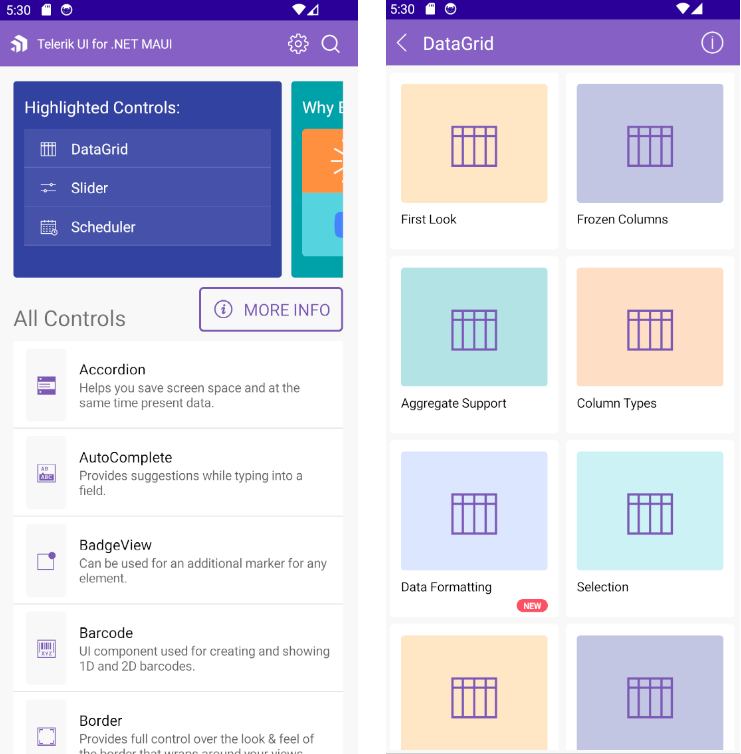
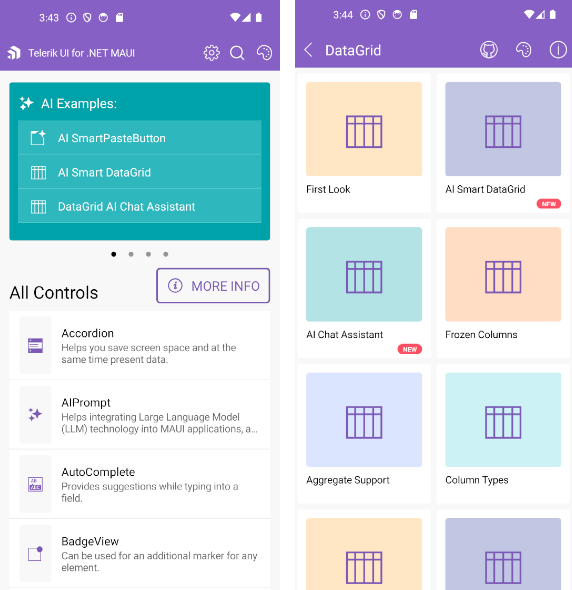
Merge pull request #1391 from telerik/didi/refactor-samples-app
Update demos and get started

Pull request: Update demos and get started

diff --git a/demos-and-sample-apps/overview.md b/demos-and-sample-apps/overview.md
@@ -18,46 +18,36 @@ The Telerik UI for .NET MAUI library offers an extensive set of fully featured e
 
 The following demo apps deliver a rich collection of .NET MAUI examples:
 
-* [Controls Samples App]({%slug controls-samples-app%})
-* [Progress Agentic RAG and Telerik UI for .NET MAUI controls]({%slug maui-parag-demo-app%})
-* [SDKBrowser App]({%slug sdkbrowser-app%})
-* [Crypto Tracker App]({%slug maui-crypto-app%})
+<article-card-container>
+	<article-card
+		href="/demos-and-sample-apps/controls-showcase-app"
+		src="../images/samples-apps.png"
+		title="Controls Samples App"
+		subTitle="Showcase Demo App"
+		description="The Telerik UI for .NET MAUI Controls Samples is a highly polished application offering many scenario-specific use cases designed to show off a subset of features for each component.">
+	</article-card>
+	<article-card
+		href="/demos-and-sample-apps/parag-demo-maui-ai"
+		src="images/parag-demo-maui-ai-mobile.png"
+		title="Progress Agentic RAG Demo App"
+		subTitle=".NET MAUI Progress Agentic RAG Demo App"
+		description="The Telerik UI for .NET MAUI Progress Agentic RAG Demo App uses the Progress Agentic RAG service to demonstrate how to integrate AI capabilities into your .NET MAUI applications.">
+	</article-card>
+	<article-card
+		href="/demos-and-sample-apps/sdkbrowser-app"
+		src="images/sdk-browser-app.png"
+		title="SDKBrowser App Examples"
+		subTitle=".NET MAUI SDKBrowser Demo Application"
+		description="The SDKBrowser is a set of .NET MAUI samples in C# and XAML that explain how to use the features of a control.">
+	</article-card>
+	<article-card
+		href="/demos-and-sample-apps/crypto-app"
+		src="../images/crypto-app.png"
+		title="Crypto Tracker App Demo"
+		subTitle=".NET MAUI Crypto Tracker App Demo"
+		description="Crypto Tracker demo is a real-case crypto application that shows changes in cryptocurrency prices, offering practical .NET MAUI app examples built with the Telerik UI for .NET MAUI controls.">
+	</article-card>
+</article-card-container>
 
 > Telerik UI for .NET MAUI version 12.0.0 adds support for .NET 10.0. You can easily switch the .NET version to .NET 9.0 or .NET 10 to build the apps. 
 > Inside the Examples folder of the installation/.zip file there are `.ps1` files - `SwitchToNet9.ps1` and `SwitchToNet10.ps1`. You can use them to switch the .NET version you use to build the .NET MAUI sample apps.
-
-## .NET MAUI Controls Samples App
-
-The Telerik UI for .NET MAUI Controls Samples is a highly polished application offering many scenario-specific use cases designed to show off a subset of features for each component. The app provides various .NET MAUI examples for many of the 60+ .NET MAUI controls included in the library.
-
-![Telerik UI for .NET MAUI Sample App WinU](images/controlssamples-winui.png)
-
-For more information on it, refer to [Controls Samples App]({%slug controls-samples-app%}).
-
-## .NET MAUI Progress Agentic RAG Demo App
-
-The Telerik UI for .NET MAUI Progress Agentic RAG Demo App uses the [Progress Agentic RAG](https://www.progress.com/agentic-rag) service to demonstrate how to integrate AI capabilities into your .NET MAUI applications. 
-
-The demo app showcases the AI-Powered search capabilities of the Progress Agentic RAG service, allowing users to interact with the AI assistant and retrieve relevant information based on their queries. 
-
-The app provides a practical example of how to leverage AI in .NET MAUI applications using the Telerik UI for .NET MAUI controls for the user interface and the Progress Agentic RAG service for the backend.
-
-![Telerik UI for .NET MAUI Progress Agentic RAG](images/parag-demo-maui-ai.png)
-
-For more information on it, refer to [.NET MAUI Progress Agentic RAG Demo App]({%slug maui-parag-demo-app%}).
-
-## .NET MAUI SDKBrowser App Examples
-
-The SDKBrowser is a set of .NET MAUI samples in C# and XAML that explain how to use the features of a control. Contrary to the Controls Samples application, the SDKBrowser shows the components in their pure form without adding extra styling and polishing. It's the go-to source for "how do I use X in Y control". Most of the code snippets available in the documentation are directly generated from the examples in the SDKBrowser (you can see special comments in the code for this).
-
-![.NET MAUI examples and controls samples](images/sdk-mobile.png)
-
-For more information on it, refer to [SDKBrowser App Examples]({%slug sdkbrowser-app%}).
-
-## .NET MAUI Crypto Tracker App Demo
-
-Crypto Tracker demo is a real-case crypto application that shows changes in cryptocurrency prices, offering practical .NET MAUI app examples built with the Telerik UI for .NET MAUI controls. In this demo, you can see in action many of the .NET MAUI controls in the library, including the CollectionView, Charts and TabView.
-
-![Telerik UI for .NET MAUI Crypto Tracker App Demo](../images/crypto-app.png)
-
-For more information on it, refer to [Crypto Tracker App Demo]({%slug maui-crypto-app%}).

diff --git a/get-started/quickstart.md b/get-started/quickstart.md
@@ -1,6 +1,6 @@
 ---
-title: Quick Start
-page_title: Telerik UI for .NET MAUI Quick Start
+title: First Steps
+page_title: Telerik UI for .NET MAUI First Steps
 description: "Get started with Telerik UI for .NET MAUI by following the essential steps to set up your license, create a project, and add your first control."
 tags: maui, dotnet maui, microsoft maui, telerik maui, nuget, ui for .net maui, macos, install, quick
 slug: maui-quick-start
@@ -9,7 +9,7 @@ previous_url: /maui-getting-started, /get-started/first-steps, /installation/win
 position: 1
 ---
 
-# Quick Start with Telerik UI for .NET MAUI
+# First Steps with Telerik UI for .NET MAUI
 
 This guide walks you through the essential steps to get Telerik UI for .NET MAUI up and running in your app.
 

diff --git a/demos-and-sample-apps/controls-showcase-app.md b/demos-and-sample-apps/controls-showcase-app.md
@@ -9,7 +9,7 @@ position: 1
 
 # Controls Samples Application
 
-The **Telerik UI for .NET MAUI Controls Samples** application provides many scenario-specific use cases designed to show off a subset of features for each component.
+The Telerik UI for .NET MAUI Controls Samples is a highly polished application offering many scenario-specific use cases designed to show off a subset of features for each component. The app provides various .NET MAUI examples for many of the 60+ .NET MAUI controls included in the library.
 
 You can access the Controls Samples application in the following ways:
 

diff --git a/demos-and-sample-apps/crypto-app.md b/demos-and-sample-apps/crypto-app.md
@@ -9,7 +9,7 @@ position: 3
 
 # Crypto Tracker Application
 
-Crypto Tracker demo is a real-case crypto application that shows changes in cryptocurrency prices, built with the Telerik UI for .NET MAUI controls.
+Crypto Tracker demo is a real-case crypto application that shows changes in cryptocurrency prices, built with the Telerik UI for .NET MAUI controls. In this demo, you can see in action many of the .NET MAUI controls in the library, including the CollectionView, Charts and TabView.
 
 You can start using the Crypto Tracker application in the following ways:
 

diff --git a/demos-and-sample-apps/parag-demo-maui-ai.md b/demos-and-sample-apps/parag-demo-maui-ai.md
@@ -12,6 +12,8 @@ tag: new
 
 The **Telerik UI for .NET MAUI Progress Agentic RAG Demo App** is a comprehensive demo application showcasing the powerful integration between [Progress Agentic RAG AI-powered search capabilities](https://www.progress.com/agentic-rag) and Telerik UI for .NET MAUI controls. This application demonstrates how to build intelligent, data-driven cross-platform mobile and desktop interfaces that combine enterprise-grade AI retrieval with beautiful, functional user interfaces.
 
+The app provides a practical example of how to leverage AI in .NET MAUI applications using the Telerik UI for .NET MAUI controls for the user interface and the Progress Agentic RAG service for the backend.
+
 Desktop look of the .NET MAUI Progress Agentic RAG Demo App:
 
 ![Telerik UI for .NET MAUI Progress Agentic RAG](images/parag-demo-maui-ai.png)

diff --git a/demos-and-sample-apps/sdkbrowser-app.md b/demos-and-sample-apps/sdkbrowser-app.md
@@ -10,7 +10,7 @@ position: 2
 
 # SDKBrowser Application
 
-The Telerik UI for .NET MAUI SDKBrowser is a set of examples that explain how to use the features of a control. The SDKBrowser shows the components in their pure form without adding extra styling and polishing. It's the go-to source for "how do I use X in Y control". Most of the code snippets available in the documentation are directly generated from the examples in the SDKBrowser (you can see special comments in the code for this).
+The Telerik UI for .NET MAUI SDKBrowser is a set of .NET MAUI samples in C# and XAML that explain how to use the features of a control. The SDKBrowser shows the components in their pure form without adding extra styling and polishing. It's the go-to source for "how do I use X in Y control". Most of the code snippets available in the documentation are directly generated from the examples in the SDKBrowser (you can see special comments in the code for this).
 
 You can access the SDKBrowser application in the following ways:
 